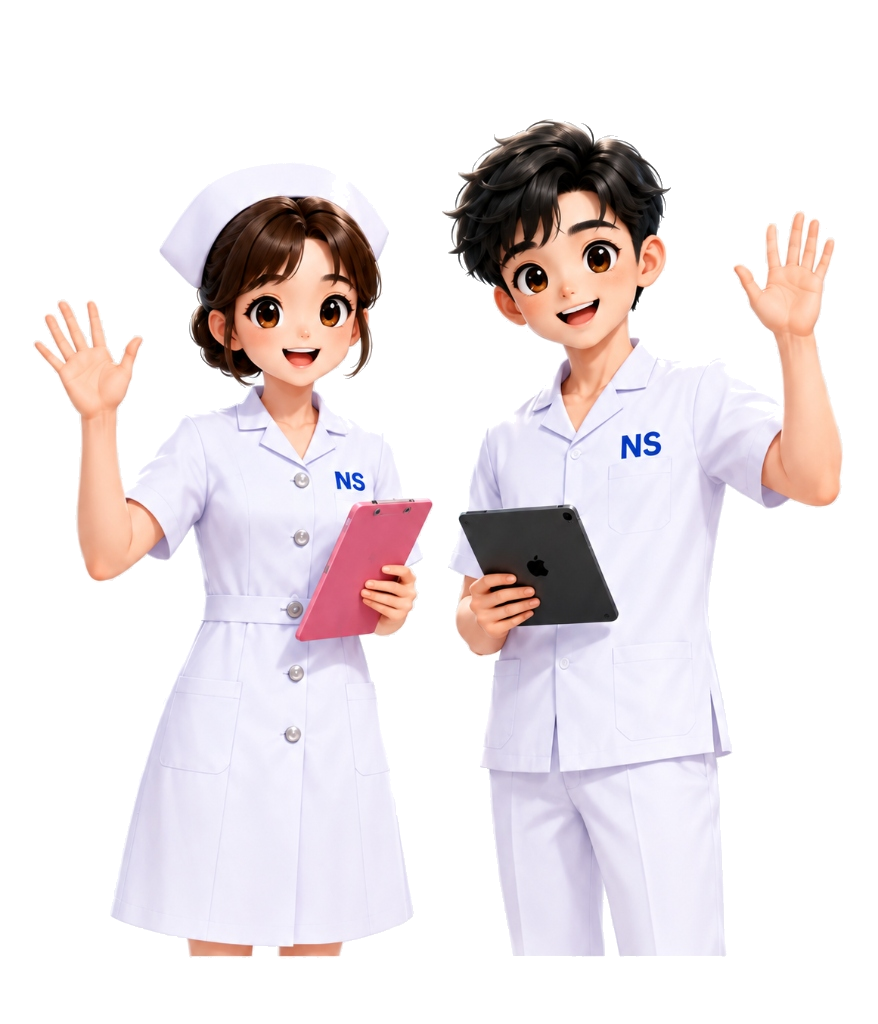
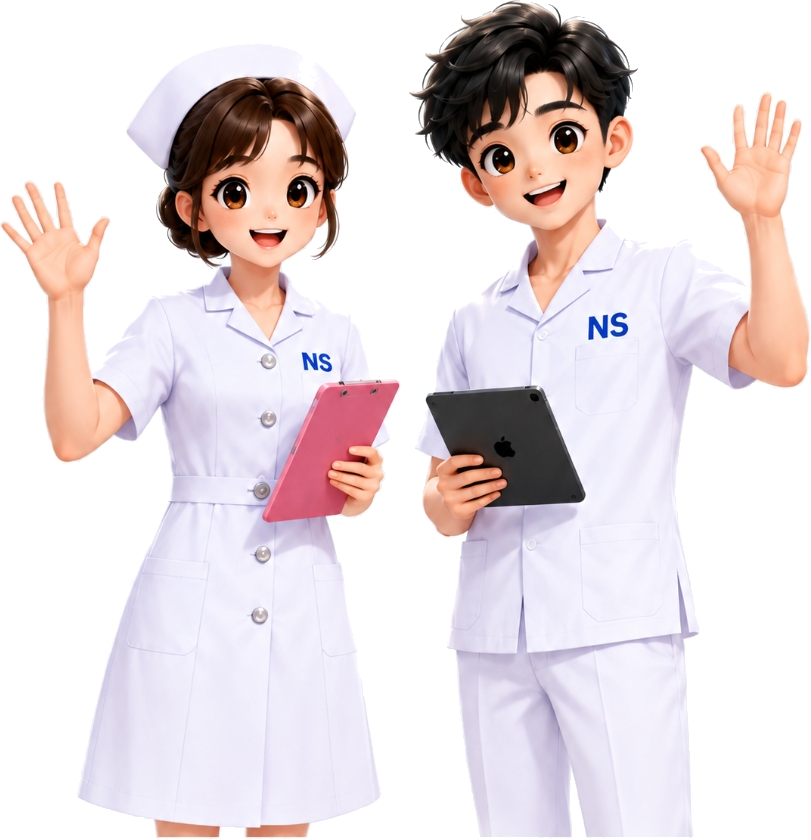
fix: anchor duo nurse mascot flush to bottom border to prevent floating legs

diff --git a/src/views/ThankYouResetView.tsx b/src/views/ThankYouResetView.tsx
@@ -270,30 +270,30 @@ export const ThankYouResetView: React.FC<ThankYouResetViewProps> = ({
         </div>
 
         {/* ── Hero Visual: Separated Campus BG + Transparent Duo Nurses + Interactive Tap + Hashtags ──── */}
-        <div className="relative w-full rounded-2xl sm:rounded-3xl overflow-hidden shadow-xl border-2 border-white/90 bg-sky-100 flex items-end justify-center min-h-[200px] xs:min-h-[230px] sm:min-h-[260px] md:min-h-[300px] max-h-[350px] aspect-[4/3] xs:aspect-[16/11] sm:aspect-[16/10]">
+        <div className="relative w-full rounded-2xl sm:rounded-3xl overflow-hidden shadow-xl border-2 border-white/90 bg-sky-100 flex items-end justify-center min-h-[220px] xs:min-h-[250px] sm:min-h-[280px] md:min-h-[320px] aspect-[4/3] xs:aspect-[16/11] sm:aspect-[16/10]">
           {/* Layer 1: Campus Background Image */}
           <img
             src={ASSETS.finish.campusBg}
             alt="Mahidol Campus Background"
-            className="absolute inset-0 w-full h-full object-cover object-center"
+            className="absolute inset-0 w-full h-full object-cover object-center pointer-events-none"
             draggable={false}
           />
 
           {/* Layer 1.5: Soft ambient gradient overlay */}
-          <div className="absolute inset-0 bg-gradient-to-t from-black/15 via-transparent to-sky-400/10 pointer-events-none" />
+          <div className="absolute inset-0 bg-gradient-to-t from-sky-950/20 via-transparent to-sky-400/10 pointer-events-none" />
 
-          {/* Layer 2: Transparent Duo Nurses (Foreground Mascot) */}
+          {/* Layer 2: Transparent Duo Nurses (Foreground Mascot - Anchored flush to bottom) */}
           <div
             onClick={handleMascotTap}
             onTouchStart={handleMascotTap}
-            className="relative z-10 w-full h-full cursor-pointer select-none flex items-end justify-center transition-transform active:scale-[0.99] pb-0"
+            className="relative z-10 w-full h-full cursor-pointer select-none flex items-end justify-center transition-transform active:scale-[0.99]"
             title="แตะที่ตัวพี่พยาบาลเพื่อรับกำลังใจ"
           >
-            {/* Mascot Image */}
+            {/* Mascot Image — perfectly grounded flush to bottom border */}
             <img
               src={ASSETS.finish.duoNurses}
               alt="Faculty of Nursing Mahidol Duo Mascot"
-              className={`h-[93%] sm:h-[96%] w-auto max-w-full object-contain filter drop-shadow-2xl ${
+              className={`h-full max-h-full w-auto max-w-[90%] sm:max-w-[82%] object-contain object-bottom filter drop-shadow-2xl translate-y-[2px] ${
                 isBouncing ? 'animate-mascot-bounce' : 'animate-float-subtle'
               }`}
               draggable={false}
